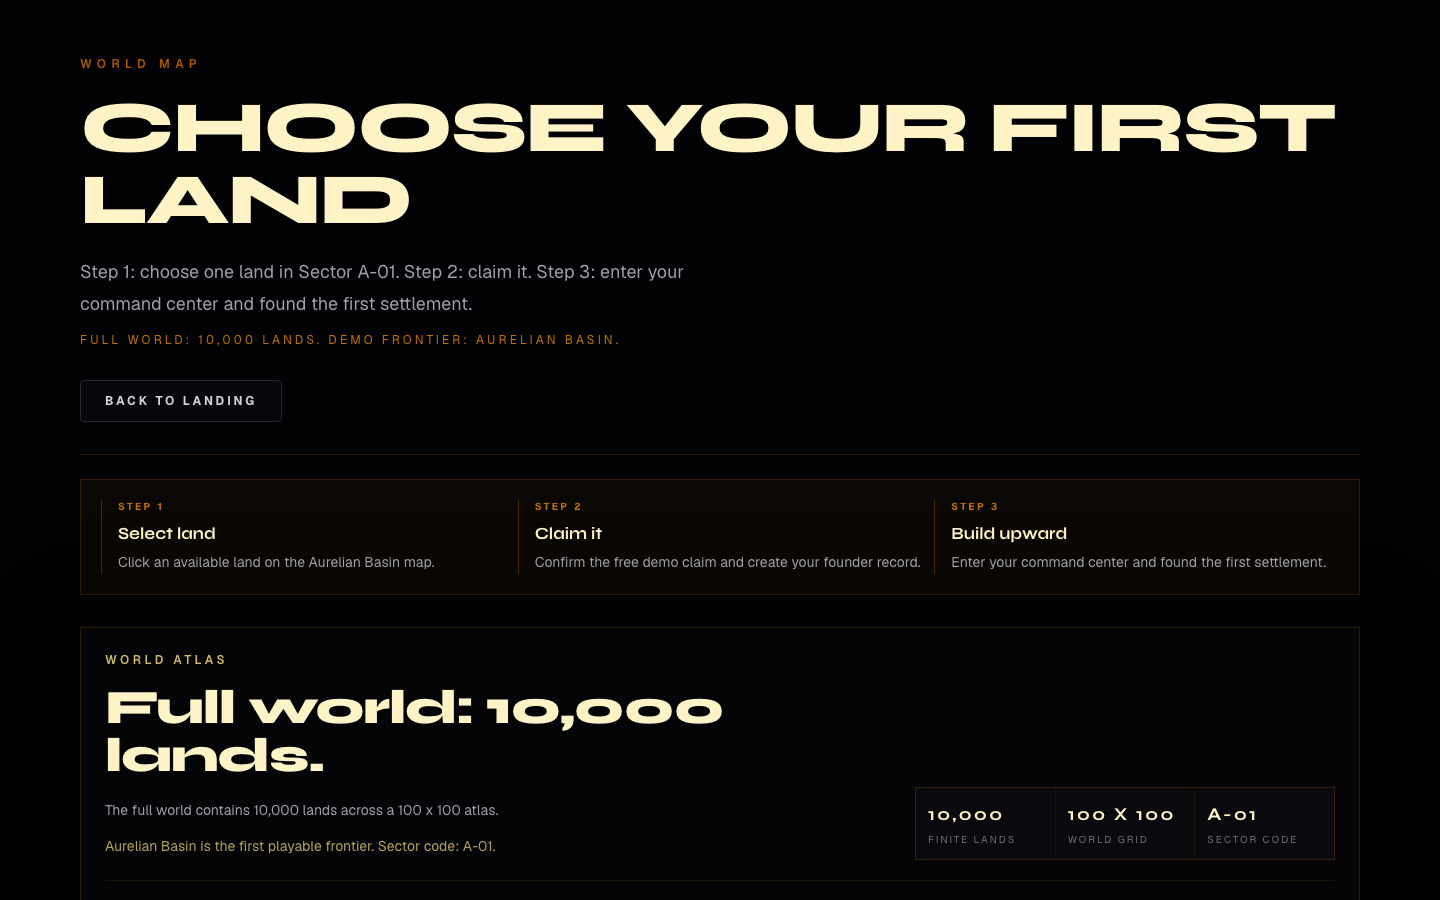
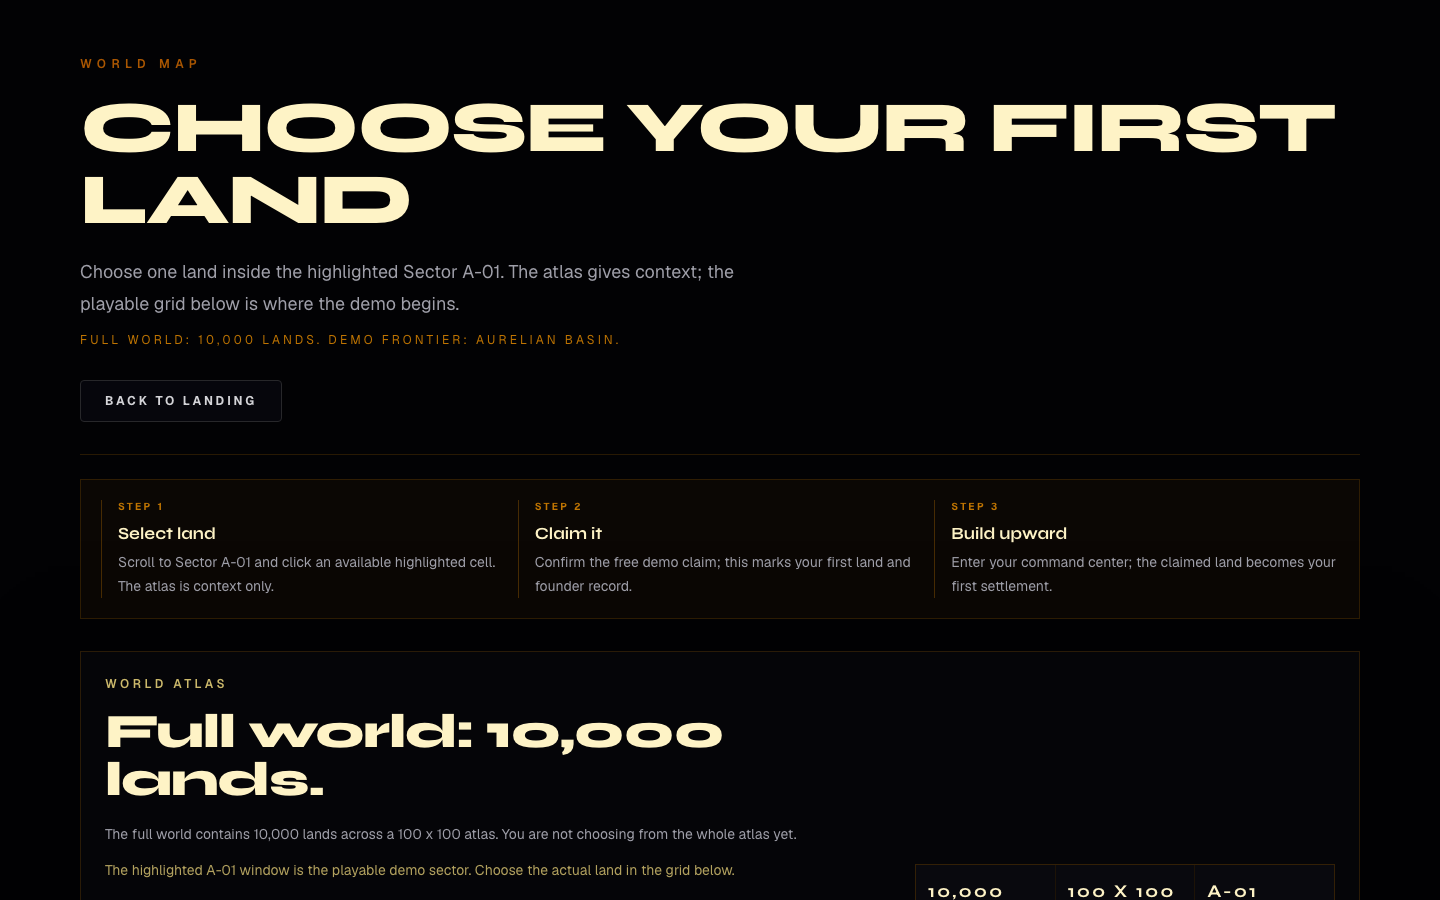
Improve world map orientation clarity

diff --git a/app/world/page.tsx b/app/world/page.tsx
@@ -575,7 +575,7 @@ export default function WorldPage() {
             CHOOSE YOUR FIRST LAND
           </h1>
           <p className="mt-4 max-w-2xl text-base leading-8 text-zinc-400 sm:mt-5 sm:text-lg">
-            Step 1: choose one land in Sector A-01. Step 2: claim it. Step 3: enter your command center and found the first settlement.
+            Choose one land inside the highlighted Sector A-01. The atlas gives context; the playable grid below is where the demo begins.
           </p>
           <p className="mt-3 text-xs uppercase tracking-[0.26em] text-amber-500/75">
             Full world: 10,000 lands. Demo frontier: Aurelian Basin.
@@ -609,9 +609,9 @@ export default function WorldPage() {
           className="mt-6 grid gap-3 border border-amber-500/15 bg-amber-500/[0.035] p-4 text-sm text-zinc-400 sm:grid-cols-3 sm:p-5"
         >
           {[
-            ["1", "Select land", "Click an available land on the Aurelian Basin map."],
-            ["2", "Claim it", "Confirm the free demo claim and create your founder record."],
-            ["3", "Build upward", "Enter your command center and found the first settlement."],
+            ["1", "Select land", "Scroll to Sector A-01 and click an available highlighted cell. The atlas is context only."],
+            ["2", "Claim it", "Confirm the free demo claim; this marks your first land and founder record."],
+            ["3", "Build upward", "Enter your command center; the claimed land becomes your first settlement."],
           ].map(([step, title, copy]) => (
             <div key={title} className="border-l border-amber-500/25 pl-4">
               <p className="text-[10px] font-bold uppercase tracking-[0.24em] text-amber-500/75">
@@ -639,11 +639,17 @@ export default function WorldPage() {
                 Full world: 10,000 lands.
               </h2>
               <p className="mt-4 text-sm leading-7 text-zinc-400">
-                The full world contains 10,000 lands across a 100 x 100 atlas.
+                The full world contains 10,000 lands across a 100 x 100 atlas. You are not choosing from the whole atlas yet.
               </p>
               <p className="mt-2 text-sm leading-7 text-amber-200/70">
-                Aurelian Basin is the first playable frontier. Sector code: A-01.
+                The highlighted A-01 window is the playable demo sector. Choose the actual land in the grid below.
               </p>
+              <a
+                href="#playable-sector"
+                className="mt-5 inline-flex rounded border border-amber-500/35 bg-amber-500/10 px-4 py-2 text-[10px] font-bold uppercase tracking-[0.22em] text-amber-100 transition-colors hover:border-amber-300/60"
+              >
+                Jump To Sector A-01
+              </a>
             </div>
             <div className="grid grid-cols-1 gap-px border border-amber-500/10 bg-amber-500/10 text-[10px] uppercase tracking-[0.2em] text-zinc-500 sm:grid-cols-3">
               <div className="bg-[#08080f]/95 p-3">
@@ -763,7 +769,7 @@ export default function WorldPage() {
                   Demo Origin
                 </p>
                 <p className="mt-2 whitespace-normal break-words text-xs leading-6 text-zinc-400">
-                  Sector A-01 is the first playable frontier.
+                  The glowing square shows where Sector A-01 sits inside the full world. Land selection happens below.
                 </p>
               </div>
             </div>
@@ -772,7 +778,7 @@ export default function WorldPage() {
                 Demo Origin
               </p>
               <p className="mt-2 text-xs leading-6 text-zinc-400">
-                Sector A-01 is the first playable frontier inside the wider atlas.
+                The glowing square is context only. Choose your actual land in the Sector A-01 grid below.
               </p>
             </div>
           </div>
@@ -799,10 +805,10 @@ export default function WorldPage() {
                     Aurelian Basin
                   </p>
                   <p className="mt-3 text-sm leading-7 text-zinc-400">
-                    Aurelian Basin is the demo frontier inside the 100 x 100 world atlas.
+                    This is the actual playable land layer for the demo, cut from the larger 100 x 100 world atlas.
                   </p>
                   <p className="mt-2 text-xs uppercase tracking-[0.22em] text-zinc-600">
-                    Choose one land and claim it. The full world contains 10,000 lands.
+                    Every clickable cell is a land parcel in Sector A-01. The painting behind the grid is terrain context, not a separate selection layer.
                   </p>
                 </div>
                 <div className="flex flex-wrap gap-2 text-[10px] uppercase tracking-[0.2em] text-zinc-500">
@@ -819,6 +825,18 @@ export default function WorldPage() {
                     Claim one land
                   </span>
                 </div>
+              </div>
+
+              <div
+                data-qa="sector-orientation-note"
+                className="mt-5 border border-amber-500/12 bg-[#08080f]/78 p-3 text-sm leading-7 text-zinc-400"
+              >
+                <span className="font-[family-name:var(--font-syne)] text-xs font-bold uppercase tracking-[0.24em] text-amber-100/80">
+                  Actual Selection Area
+                </span>
+                <p className="mt-2">
+                  Click one visible cell in the A-01 grid. Terrain colors show plains, forests, mountains, coast and basin; the grid cells are the land parcels you can claim.
+                </p>
               </div>
 
               {demoState.claimedLand ? (
@@ -847,7 +865,7 @@ export default function WorldPage() {
 
               <div className="mt-5 flex flex-wrap items-center justify-between gap-3 border border-amber-500/10 bg-[#08080f]/70 p-2 sm:hidden">
                 <p className="text-[10px] uppercase tracking-[0.2em] text-zinc-500">
-                  Default view fits Sector A-01. Zoom to inspect and pan.
+                  Default view fits the claimable Sector A-01 grid. Zoom to inspect land cells.
                 </p>
                 <div className="flex gap-1.5">
                   {mobileMapControls.map(({ label, action }) => (
@@ -1044,7 +1062,7 @@ export default function WorldPage() {
                       Route - {routeTarget.name}
                     </span>
                   ) : null}
-                  <div className="relative z-[12] grid grid-cols-[repeat(18,minmax(0,1fr))] gap-px bg-transparent p-px">
+                  <div data-qa="sector-claimable-grid" className="relative z-[12] grid grid-cols-[repeat(18,minmax(0,1fr))] gap-px bg-transparent p-px">
                     {tiles.map((tile) => {
                       const tileOwnedByYou = demoState.claimedLandId === tile.id && demoState.claimedLand;
                       const tileClaimed = tile.claimed || tileOwnedByYou;
@@ -1057,7 +1075,7 @@ export default function WorldPage() {
                           type="button"
                           onClick={() => selectTile(tile.id)}
                           aria-label={`${tile.landId}, ${tile.region}, ${toTerrainLabel(tile.terrain)}`}
-                          className={`relative aspect-square overflow-hidden border border-white/[0.018] bg-black/[0.025] transition-[border-color,box-shadow,background-color] duration-200 before:pointer-events-none before:absolute before:inset-0 before:opacity-90 after:pointer-events-none after:absolute after:inset-0 after:bg-[radial-gradient(circle_at_35%_30%,rgba(255,255,255,0.04),transparent_42%)] ${
+                          className={`relative aspect-square overflow-hidden border border-white/[0.025] transition-[border-color,box-shadow,background-color] duration-200 before:pointer-events-none before:absolute before:inset-0 before:opacity-90 before:content-[''] after:pointer-events-none after:absolute after:inset-0 after:bg-[radial-gradient(circle_at_35%_30%,rgba(255,255,255,0.04),transparent_42%)] ${TERRAIN_TILE_SURFACE[tile.terrain]} ${TERRAIN_TINT[tile.terrain]} ${
                             tile.x === 0 || tile.x === GRID_WIDTH - 1 || tile.y === 0 || tile.y === GRID_HEIGHT - 1
                               ? "opacity-[0.72]"
                               : ""
@@ -1171,6 +1189,20 @@ export default function WorldPage() {
               <p className="mt-3 text-xs leading-6 text-zinc-500">{selectedTile.contextLine}</p>
             </div>
 
+            <div
+              data-qa="selected-land-next-step"
+              className="mt-5 border border-amber-500/15 bg-[#08080f]/80 p-4 text-sm leading-6 text-zinc-400"
+            >
+              <p className="text-[10px] font-bold uppercase tracking-[0.24em] text-amber-500/75">Next Step</p>
+              <p className="mt-2">
+                {ownedByYou
+                  ? "Enter your command center to turn this land into your first settlement."
+                  : isUnavailable
+                    ? "This parcel is already claimed in the preview. Pick another unclaimed cell in Sector A-01."
+                    : "Claim this land, then enter your command center to found the first settlement."}
+              </p>
+            </div>
+
             <div className="mt-6">
               {ownedByYou ? (
                 <Link
@@ -1281,6 +1313,15 @@ export default function WorldPage() {
                   <p className="mx-auto mt-6 max-w-md text-base leading-8 text-zinc-400">
                     You now control {selectedTile.landName}. Next, enter your command center and found the first settlement.
                   </p>
+                  <div
+                    data-qa="post-claim-next-step"
+                    className="mx-auto mt-6 max-w-md border border-amber-500/15 bg-amber-500/[0.045] p-4 text-left text-sm leading-7 text-zinc-400"
+                  >
+                    <p className="text-[10px] font-bold uppercase tracking-[0.24em] text-amber-500/75">Step 3 / Command Center</p>
+                    <p className="mt-2">
+                      This is the bridge from land to settlement: enter your land, review the founder record, then create the first settlement.
+                    </p>
+                  </div>
                   <div className="mt-8 flex flex-col gap-3 sm:flex-row sm:justify-center">
                     <Link
                       href="/dashboard"

diff --git a/public/qa/latest/index.html b/public/qa/latest/index.html
@@ -21,7 +21,7 @@
     <header>
       <p class="eyebrow">Pixel Nations QA Evidence</p>
       <h1>Public QA Evidence</h1>
-      <p>Generated: <code>2026-06-20T09:11:31.425Z</code></p>
+      <p>Generated: <code>2026-06-20T15:49:55.305Z</code></p>
       <p>This page is a stable public entry point for the latest committed QA artifacts.</p>
     </header>
 

diff --git a/public/qa/latest/report.html b/public/qa/latest/report.html
@@ -27,7 +27,7 @@
     <header>
       <p class="eyebrow">Pixel Nations QA Report</p>
       <h1>Pixel Nations QA Report</h1>
-      <p>Generated: <code>2026-06-20T09:11:31.425Z</code></p>
+      <p>Generated: <code>2026-06-20T15:49:55.305Z</code></p>
       <p>App source: <code>existing local app</code></p>
     </header>
 
